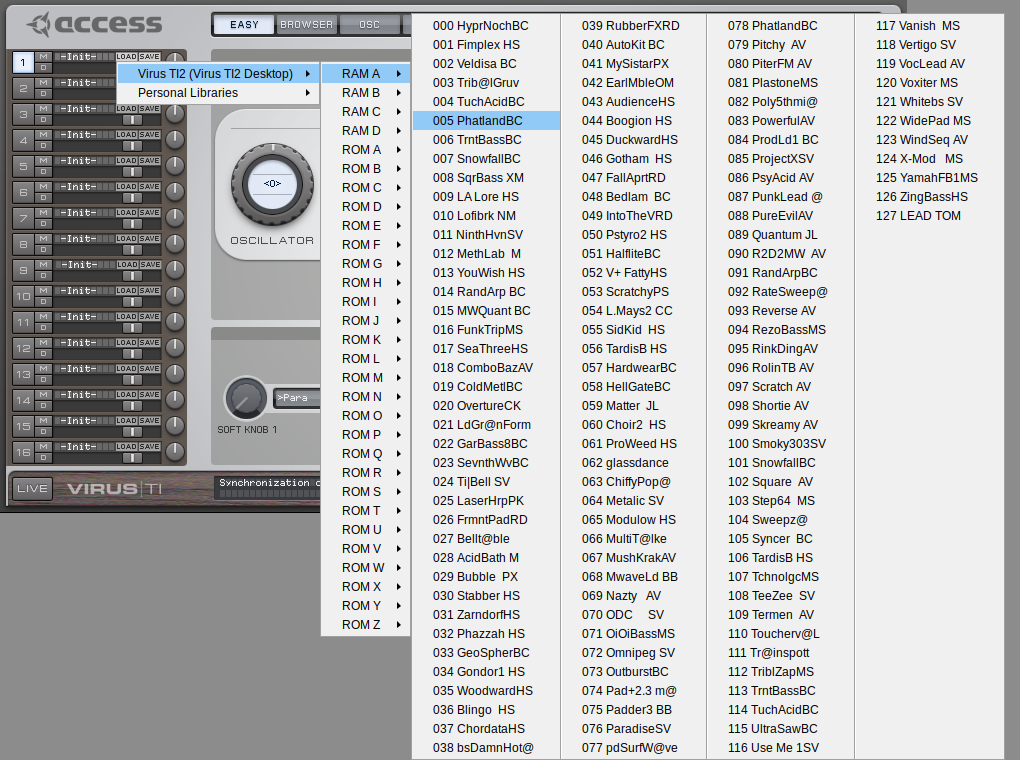
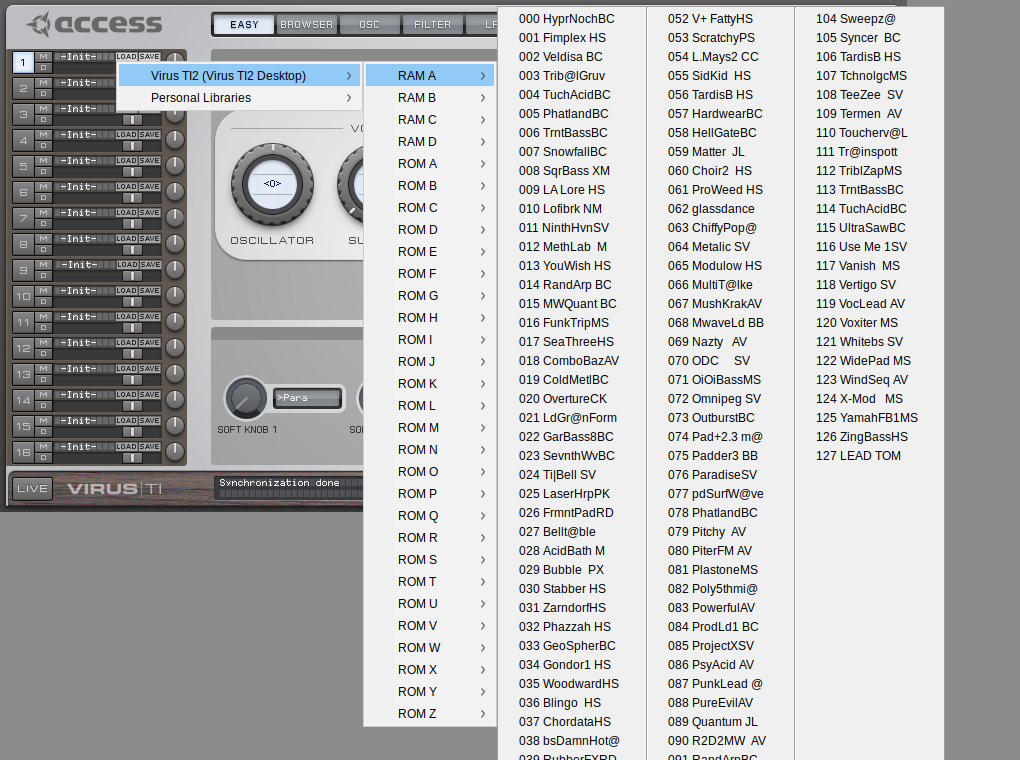
Release 0.8.25 prep: release notes, menu screenshot in the new look, site check
Site check 2026-10-18: the round's claims updated earlier (7b49ada); timing, sleep and coverage claims come from
earlier releases with unchanged code (E209-E216); coverage keeps its date. Version comes from the tag.

Claude-Session: https://claude.ai/code/session_01Bsr6AgResPDy5aR2Fp1fBt

Changed region(s): [[0.1216, 0.0, 1.0, 1.0]]

diff --git a/scripts/site/build.py b/scripts/site/build.py
@@ -522,7 +522,7 @@ def features_section():
       Return and Esc work; a click elsewhere or switching to another window closes the menu. Since 0.8.25 they also look
       like the original's on Windows 10: menus with one column in Windows' modern look, menus with columns in the older one.</p></div>
       <figure class="shot"><img src="plugin-menus.png" width="1020" height="760"
-      alt="The LOAD menu: the device entry, the bank list and RAM A's 128 patches in four columns, beyond the plug-in window">
+      alt="The LOAD menu: the device entry, the bank list and RAM A's 128 patches in columns, beyond the plug-in window">
       <figcaption>The LOAD menu reaching beyond the plug-in window (Linux), drawn from your own Access installer. TI Revive
       is not affiliated with Access Music or Kemper.</figcaption></figure>
     </div>

diff --git a/README.md b/README.md
@@ -249,7 +249,7 @@ same with Access' own driver.
   Used" (the last 10 patches of each part); Personal Libraries has "Create Empty Library" (since 0.8.25).
 
 <p align="center">
-  <img src="docs/images/plugin-menus.png" alt="The LOAD menu: the device entry, the bank list and RAM A's 128 patches in four columns, beyond the plug-in window" width="680"><br>
+  <img src="docs/images/plugin-menus.png" alt="The LOAD menu: the device entry, the bank list and RAM A's 128 patches in columns, beyond the plug-in window" width="680"><br>
   <sub>The LOAD menu reaching beyond the plug-in window (Linux), drawn from your own Access installer. TI Revive is not affiliated with Access Music or Kemper.</sub>
 </p>
 
